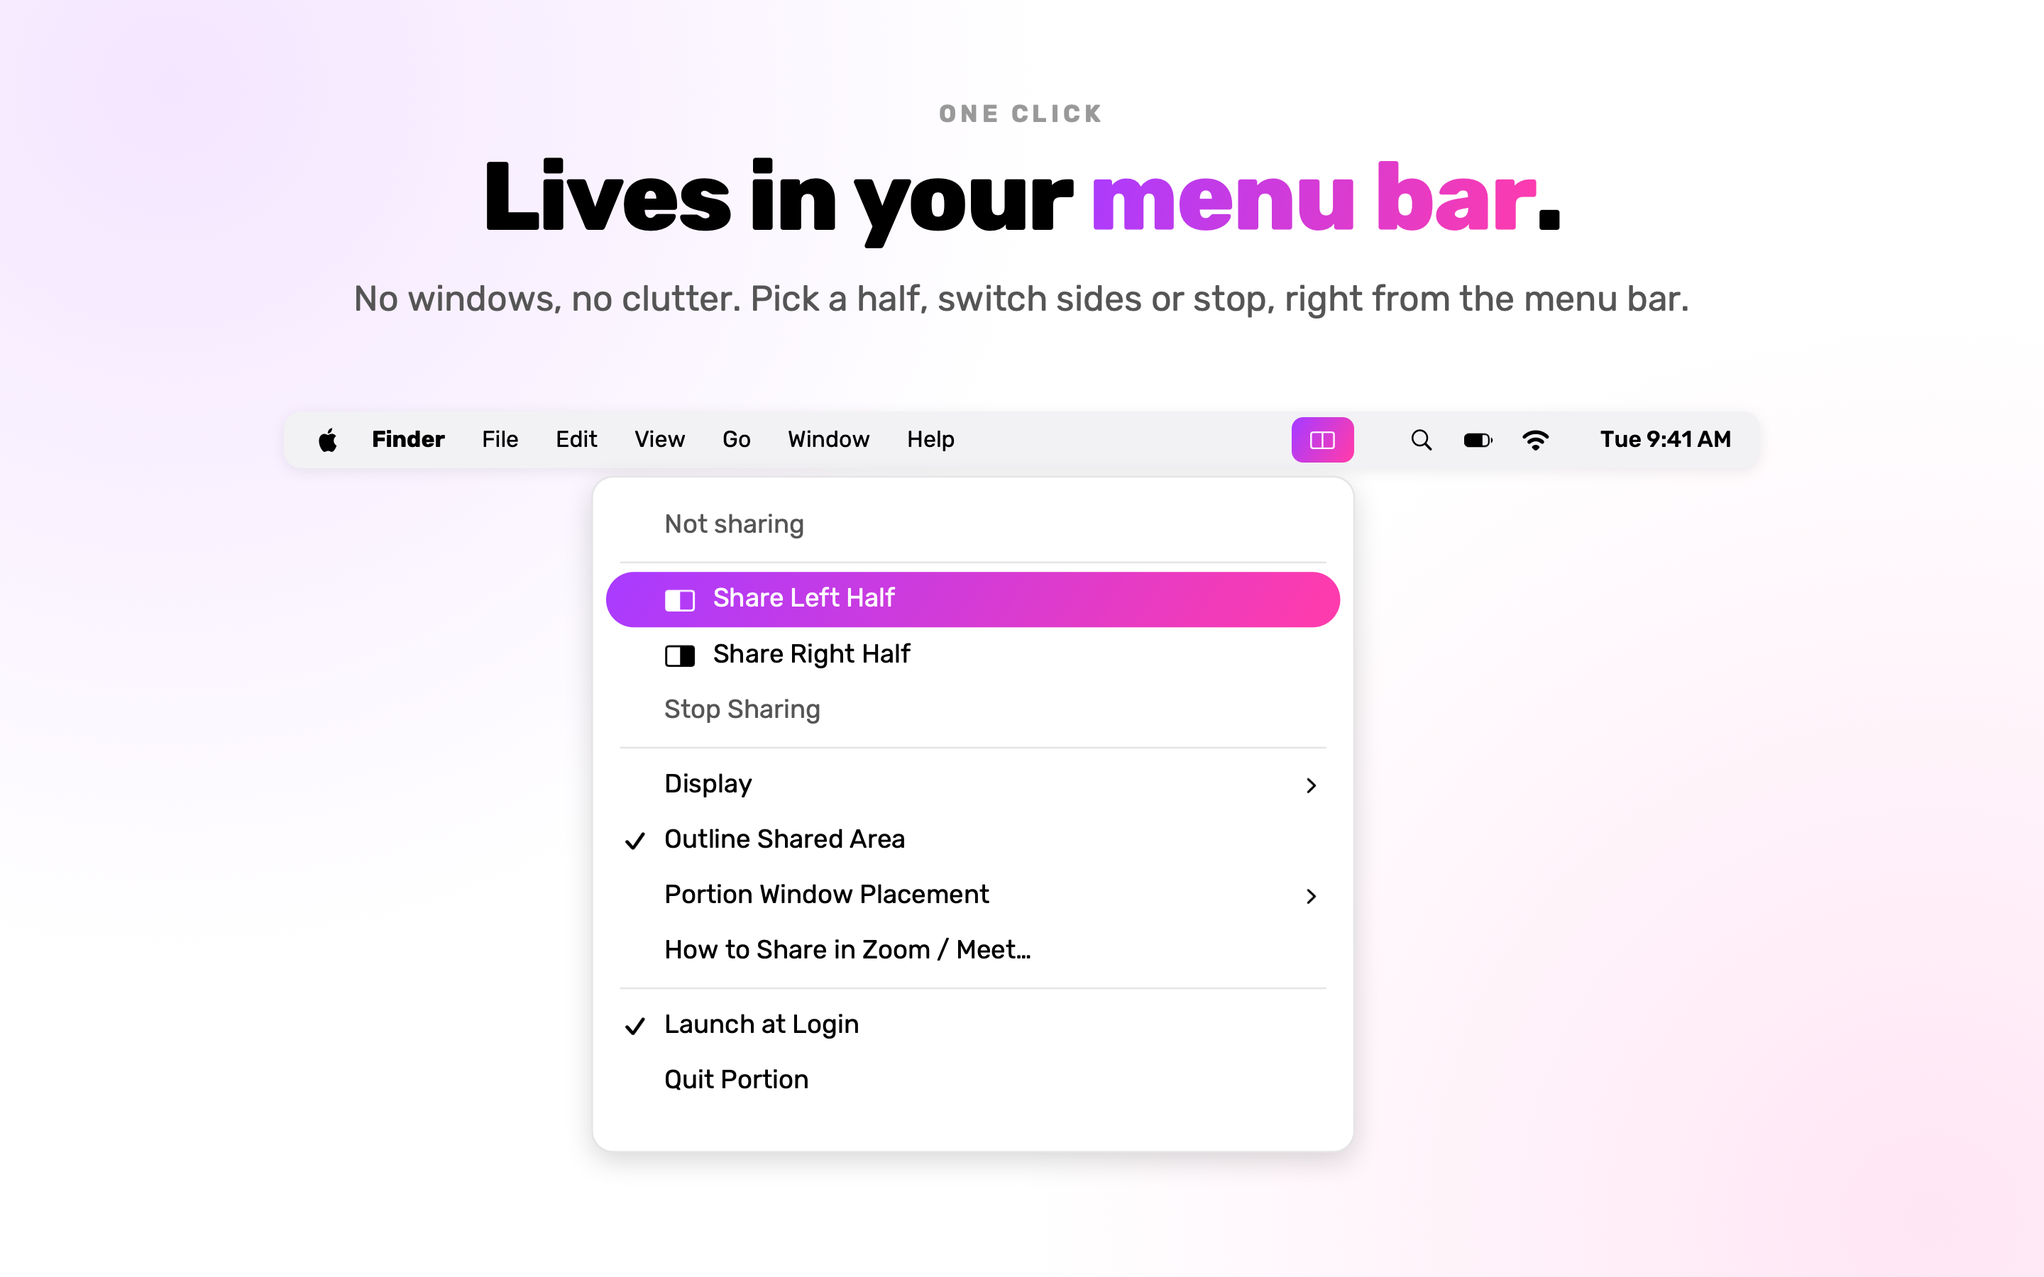
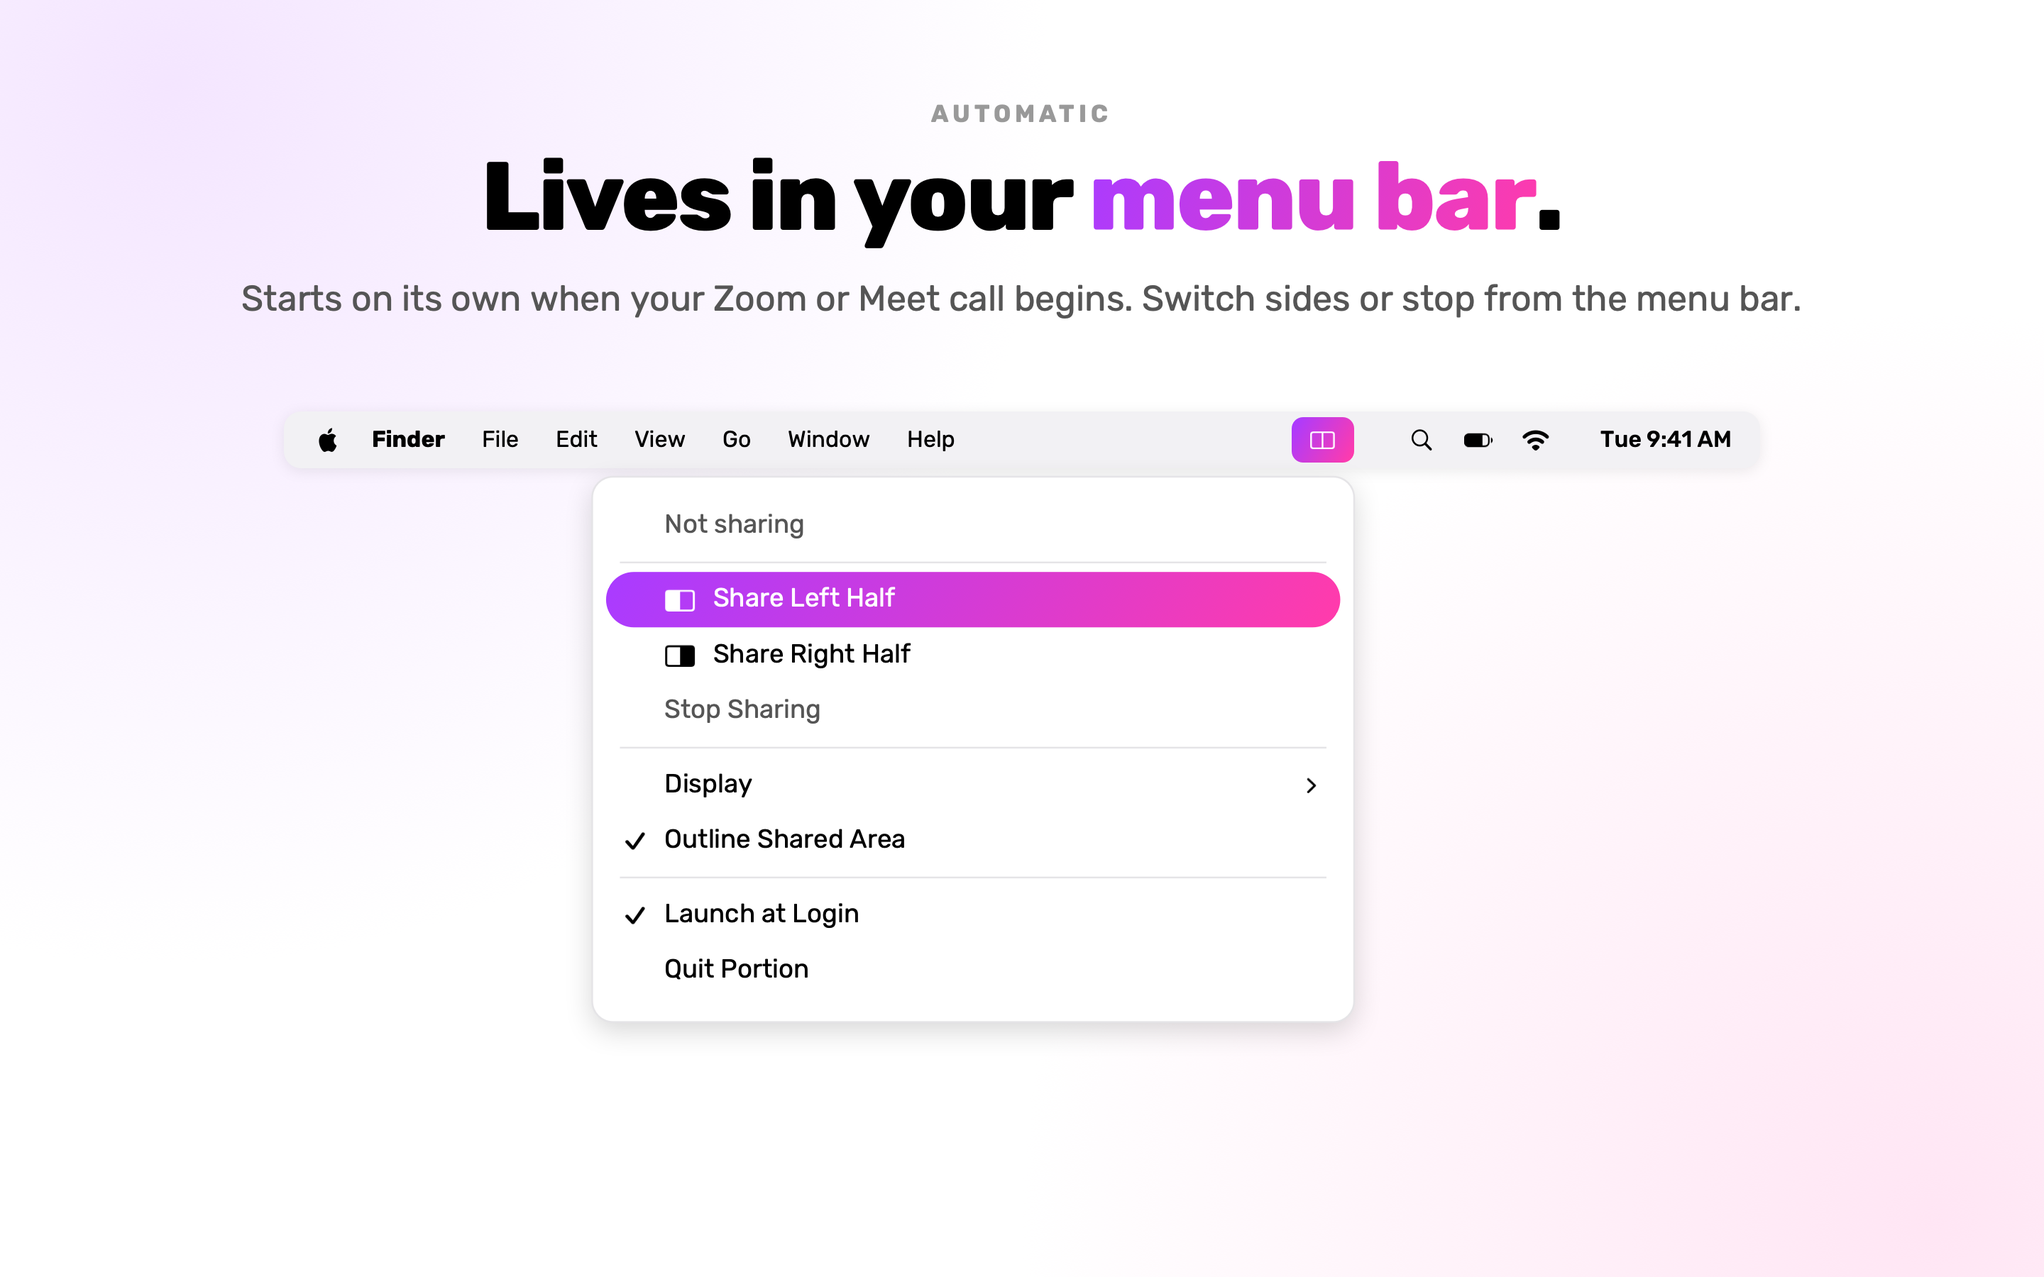
Update graphics and docs for automatic sharing and the simpler menu
Redraw the three-steps illustration (step 1 is now "Join your call"), the
menu image and the App Store menu bar screenshot. Update the README, App
Store listing and review notes, privacy policy and BUILDING.md to describe
automatic start/stop, continuous window-title checks and the microphone
in-use check.

diff --git a/Scripts/make-graphics.swift b/Scripts/make-graphics.swift
@@ -292,14 +292,14 @@ struct MakeGraphics {
         }
     }
 
-    /// Three steps: pick a half, pick the Portion window, click Share.
+    /// Three steps: join the call (Portion starts on its own), pick the Portion window, click Share.
     static func steps() {
         render("three-steps", width: 1200, height: 470) {
             canvas(1200, 470)
             let panelW: CGFloat = 352, gap: CGFloat = 22, top: CGFloat = 40
-            let titles = ["Pick a half", "Choose “Portion”", "Click Share"]
-            let notes = ["Click the Portion icon in your menu bar.",
-                         "In Zoom or Meet, pick the Portion window.",
+            let titles = ["Join your call", "Choose “Portion”", "Click Share"]
+            let notes = ["Portion starts sharing your left half on its own.",
+                         "Click Share in Zoom or Present in Meet, then pick Portion.",
                          "Done! The card goes away and your half is live."]
             for i in 0..<3 {
                 let p = NSRect(x: 40 + CGFloat(i) * (panelW + gap), y: top, width: panelW, height: 390)
@@ -310,7 +310,7 @@ struct MakeGraphics {
                 text(titles[i], at: NSPoint(x: p.minX + 80, y: p.minY + 34), size: 24, weight: 800)
                 let art = NSRect(x: p.minX + 24, y: p.minY + 84, width: p.width - 48, height: 210)
                 switch i {
-                case 0: stepMenu(art)
+                case 0: stepCall(art)
                 case 1: stepPicker(art)
                 default: stepShare(art)
                 }
@@ -319,27 +319,28 @@ struct MakeGraphics {
         }
     }
 
-    static func stepMenu(_ r: NSRect) {
-        // Menu bar strip.
-        let bar = NSRect(x: r.minX, y: r.minY, width: r.width, height: 34)
-        fill(bar, NSColor(hex: 0xE6E8EF), radius: 8)
-        for (i, s) in ["wifi", "battery.75percent", "clock"].enumerated() {
-            symbol(s, in: NSRect(x: bar.maxX - 34 - CGFloat(i) * 30, y: bar.minY + 9, width: 22, height: 16), color: inkSoft)
+    /// A call window, with Portion's notice that it has started on its own.
+    static func stepCall(_ r: NSRect) {
+        fill(r, callBG, radius: 12)
+        for (i, c) in [0xFF5F57, 0xFEBC2E, 0x28C840].enumerated() {
+            fill(NSRect(x: r.minX + 14 + CGFloat(i) * 18, y: r.minY + 14, width: 10, height: 10), NSColor(hex: UInt32(c)), radius: 5)
         }
-        let iconBox = NSRect(x: bar.minX + 120, y: bar.minY + 3, width: 36, height: 28)
-        fill(iconBox, Brand.purple.withAlphaComponent(0.15), radius: 6)
-        symbol("rectangle.split.2x1", in: iconBox.insetBy(dx: 7, dy: 6), color: ink)
-        // Dropdown.
-        let menu = NSRect(x: iconBox.minX - 10, y: bar.maxY + 8, width: 190, height: 140)
-        shadowed(blur: 14, y: 4, alpha: 0.16) { fill(menu, .white, radius: 10) }
-        let rows = [("rectangle.lefthalf.filled", "Share Left Half"), ("rectangle.righthalf.filled", "Share Right Half"), ("", "Stop Sharing")]
-        for (i, row) in rows.enumerated() {
-            let rr = NSRect(x: menu.minX + 6, y: menu.minY + 10 + CGFloat(i) * 40, width: menu.width - 12, height: 34)
-            if i == 0 { gradient(rr, radius: rr.height / 2) }
-            let color: NSColor = i == 0 ? .white : (i == 2 ? inkSoft : ink)
-            if !row.0.isEmpty { symbol(row.0, in: NSRect(x: rr.minX + 10, y: rr.minY + 9, width: 22, height: 16), color: color) }
-            text(row.1, at: NSPoint(x: rr.minX + 40, y: rr.minY + 7), size: 15, weight: 500, color: color)
+        // Participant tiles.
+        let tileW = (r.width - 16 * 3) / 2, tileH: CGFloat = 62
+        for i in 0..<2 {
+            let t = NSRect(x: r.minX + 16 + CGFloat(i) * (tileW + 16), y: r.minY + 38, width: tileW, height: tileH)
+            fill(t, NSColor(hex: 0x3C4043), radius: 8)
+            symbol("person.fill", in: t.insetBy(dx: tileW / 2 - 16, dy: 14), color: NSColor(hex: 0x9AA0A6))
         }
+        // Portion's status, as if from the menu bar.
+        let note = NSRect(x: r.minX + 16, y: r.minY + 116, width: r.width - 32, height: 76)
+        gradient(note, radius: 12)
+        let g = NSRect(x: note.minX + 16, y: note.midY - 13, width: 40, height: 26)
+        fill(g, NSColor.white.withAlphaComponent(0.3), radius: 4)
+        fill(NSRect(x: g.minX, y: g.minY, width: g.width / 2, height: g.height), .white, radius: 4)
+        stroke(g, .white, width: 2, radius: 4)
+        text("Portion is sharing", at: NSPoint(x: g.maxX + 14, y: note.minY + 16), size: 17, weight: 700, color: .white)
+        text("your left half", at: NSPoint(x: g.maxX + 14, y: note.minY + 40), size: 15, color: NSColor.white.withAlphaComponent(0.85))
     }
 
     static func stepPicker(_ r: NSRect) {
@@ -408,16 +409,16 @@ struct MakeGraphics {
 
     /// The menu bar menu.
     static func menu() {
-        render("menu", width: 560, height: 470) {
-            canvas(560, 470)
+        render("menu", width: 560, height: 395) {
+            canvas(560, 395)
             menuScene()
         }
     }
 
-    /// The menu without its canvas, laid out in a 560 × 470 space (menu at 60, 40, 440 × 390).
+    /// The menu without its canvas, laid out in a 560 × 395 space (menu at 60, 40, 440 × 315).
     static func menuScene() {
         do {
-            let m = NSRect(x: 60, y: 40, width: 440, height: 390)
+            let m = NSRect(x: 60, y: 40, width: 440, height: 315)
             shadowed(blur: 20, y: 6, alpha: 0.16) { fill(m, .white, radius: 12) }
             stroke(m, line, width: 1, radius: 12)
             var y = m.minY + 12
@@ -479,9 +480,9 @@ extension MakeGraphics {
             placed(at: NSPoint(x: (shotW - 500 * 1.5) / 2, y: 300), scale: 1.5) { privacyScene() }
         }
 
-        screenshot("04-menu-bar", eyebrow: "ONE CLICK",
+        screenshot("04-menu-bar", eyebrow: "AUTOMATIC",
                    headline: [("Lives in your ", false), ("menu bar", true), (".", false)],
-                   subline: "No windows, no clutter. Pick a half, switch sides or stop, right from the menu bar.") {
+                   subline: "Starts on its own when your Zoom or Meet call begins. Switch sides or stop from the menu bar.") {
             menuBarScene()
         }
 

diff --git a/AppStore/metadata.md b/AppStore/metadata.md
@@ -50,12 +50,15 @@ Share just half of your screen in video calls.
 Portion lets you present one half of your Mac's screen, like your slides, a document or a demo, while the other half stays completely private. Keep your notes, email and chat right next to what you're presenting, and nobody in the call will see them.
 
 HOW IT WORKS
-1. Click the Portion icon in the menu bar and choose Share Left Half or Share Right Half.
-2. In your video call, choose to share a window and pick "Portion".
-3. That's it. Everyone in the call sees only the half you picked.
+1. Join your Zoom meeting or Google Meet call. Portion starts sharing the left half of your screen on its own.
+2. Click Share in your call and pick the window named "Portion".
+3. That's it. Everyone in the call sees only that half. When the call ends, Portion stops on its own.
+
+Using another call app, or want the right half? Pick a half from the Portion icon in the menu bar.
 
 FEATURES
 • Share the left or right half of any display
+• Starts and stops on its own with Zoom meetings and Google Meet calls
 • A colored outline shows exactly what's being shared. The call never sees the outline.
 • Switch halves in the middle of a call, without stopping or sharing again
 • Easy to find: Portion shows up as a bold card in your call's window list
@@ -95,7 +98,7 @@ Upload the five files in [`screenshots/`](screenshots/), in order, under **macOS
 1. `01-share-half.png`: Share half your screen
 2. `02-find-it.png`: Find it instantly
 3. `03-private.png`: Everything else stays private
-4. `04-menu-bar.png`: Lives in your menu bar
+4. `04-menu-bar.png`: Lives in your menu bar (starts on its own with Zoom and Meet calls)
 5. `05-switch.png`: Switch halves mid-call
 
 ## App icon
@@ -133,10 +136,11 @@ On first launch, a welcome message explains where to find it. Portion's icon (tw
 HOW TO TEST
 1. Launch Portion and click Continue on the welcome message.
 2. macOS asks for Screen Recording permission. Turn on Portion in System Settings > Privacy & Security > Screen & System Audio Recording, then quit and reopen Portion (macOS requires this).
-3. Click the Portion menu bar icon and choose "Share Left Half". A purple-and-pink outline appears around the left half of the screen. The outline is only visible locally.
-4. Open a video call app that can share a single window, such as Zoom or Google Meet in Chrome (meet.google.com/new).
-5. Choose to share a window and pick the window named "Portion". It shows a purple card labeled "Portion".
-6. After clicking Share, the card disappears and the call shows a live picture of only the left half of the screen. Choose "Share Right Half" in the Portion menu to switch halves without re-sharing.
+3. Join a Google Meet call in Chrome (meet.google.com/new) or a Zoom meeting. Within a second, Portion starts sharing the left half of the screen on its own: a purple-and-pink outline appears around it. The outline is only visible locally.
+4. In the call, click Present (Meet) or Share Screen (Zoom), choose to share a window, and pick the window named "Portion". It shows a purple card labeled "Portion".
+5. After clicking Share, the card disappears and the call shows a live picture of only the left half of the screen. Choose "Share Right Half" in the Portion menu to switch halves without re-sharing.
+6. Leave the call. A few seconds later, Portion stops sharing on its own and the outline disappears.
+With other call apps, choose "Share Left Half" from the Portion menu first, then share the "Portion" window.
 
 WHY PORTION NEEDS SCREEN RECORDING
 Portion copies half of the screen into its own window, called "Portion", which the call app then shares. Nothing is recorded, saved or sent anywhere. Portion has no network access.
@@ -145,5 +149,8 @@ ABOUT THE PORTION WINDOW
 The "Portion" window is deliberately placed almost entirely off-screen, so the user doesn't see a second copy of their screen. It is still visible to the call app's window picker.
 
 ABOUT READING WINDOW TITLES
-While its purple card is showing, Portion checks the titles of on-screen windows a few times per second. It looks only for the indicator that Zoom or Chrome shows once sharing starts ("... is sharing a window"), then hides its card so the call sees the user's screen. Titles are never stored or sent anywhere, and the check stops as soon as sharing begins.
+While running, Portion checks the titles of on-screen windows twice per second. It looks only for a Zoom meeting window ("Zoom Meeting"), a Google Meet call tab ("Meet - abc-defg-hij") or Chrome's Meet share picker, so it can start and stop sharing with the call, and for the indicator Zoom or Chrome shows once sharing starts ("... is sharing a window"), so it can hide its card. Titles are never stored or sent anywhere.
+
+ABOUT MICROPHONE STATUS
+Browsers only expose the active tab's title, so to tell a call in a background tab from one that has ended, Portion asks Core Audio whether any input device is running (kAudioDevicePropertyDeviceIsRunningSomewhere). It never opens a microphone or receives audio, and needs no microphone permission.
 ```

diff --git a/BUILDING.md b/BUILDING.md
@@ -52,7 +52,8 @@ Portion's style matches [christopherrose.com](https://christopherrose.com): blac
 
 - Portion captures half of a display with ScreenCaptureKit and draws it live into a borderless window titled **Portion**. Call apps share that window.
 - That window normally hangs off the bottom-right corner of the rightmost display, overlapping it by one pixel. If the window were *fully* off-screen, ScreenCaptureKit couldn't snapshot it, and share pickers would show a blank thumbnail.
-- When sharing starts, the window shows a branded card (`IntroCard.swift`), so it's easy to spot in pickers. macOS doesn't report when another app starts capturing a window. Instead, `ShareDetector.swift` watches for the "sharing" indicator windows that Chrome ("… is sharing a window.") and Zoom ("zoom share toolbar window") open, and dismisses the card when one appears. A 60-second fallback covers other apps.
+- When sharing starts, the window shows a branded card (`IntroCard.swift`), so it's easy to spot in pickers. macOS doesn't report when another app starts capturing a window. Instead, `ShareDetector.swift` watches for the "sharing" indicator windows that Chrome ("… is sharing a window.") and Zoom ("zoom share toolbar window") open, and dismisses the card when one appears. A 60-second fallback covers other apps. When sharing started on its own with a call, the card stays up until the share begins, since the picker may not open for a while.
+- `CallDetector.swift` starts sharing the left half when a Zoom meeting window ("Zoom Meeting") or a Google Meet call tab ("Meet - abc-defg-hij") is on screen, or when Chrome's "Choose what to share with meet.google.com" picker opens, so the Portion window is already in the picker. It stops sharing it started a few seconds after the call window, the sharing indicator and microphone use are all gone. Browsers only report the active tab's title, so microphone use (read through Core Audio's `kAudioDevicePropertyDeviceIsRunningSomewhere`, never the audio itself) is what keeps a call alive while the Meet tab is in the background. Choosing Stop Sharing keeps it off for the rest of that call. Each call is told apart by its Meet code.
 - If the capture stream stops (sleep, lock, display changes), Portion restarts it into the same window, so the call keeps sharing.
 
 ## Project layout
@@ -66,6 +67,7 @@ Sources/Portion/
   MirrorWindow.swift             The "Portion" window that you share in calls
   IntroCard.swift                Branded card shown in the Portion window when sharing starts
   ShareDetector.swift            Notices when Zoom / Meet start sharing, to dismiss the card
+  CallDetector.swift             Starts and stops sharing with Zoom / Meet calls
   BorderOverlay.swift            Gradient outline around the shared area
   Brand.swift                    Brand colors and the Rubik font (matches christopherrose.com)
 Resources/Info.plist             Bundle metadata (LSUIElement = menu bar only)

diff --git a/PRIVACY.md b/PRIVACY.md
@@ -1,6 +1,6 @@
 # Portion Privacy Policy
 
-_Last updated: November 11, 2026_
+_Last updated: November 14, 2026_
 
 Portion is a Mac app by Christopher Rose that lets you share half of your screen in video calls. This policy explains what Portion does with your information. The short version: **Portion doesn't collect any.**
 
@@ -11,7 +11,8 @@ Nothing. Portion has no accounts, analytics, advertising, or tracking. It doesn'
 ## What Portion does on your Mac
 
 - **Your screen.** With your permission (macOS's Screen Recording setting), Portion copies the half of your screen you choose into a window called "Portion". You decide whether to share that window in a video call. Portion never records, saves, or sends the picture of your screen. It exists only on your Mac while Portion is sharing.
-- **Window titles.** For a short time after you start sharing, Portion checks the titles of windows on your screen. It does this only to notice when Zoom or Google Meet show their "you're sharing" indicator, so it can hide its purple start-up card. Portion doesn't store window titles or send them anywhere.
+- **Window titles.** While it's running, Portion checks the titles of windows on your screen. It does this only to notice when a Zoom meeting or Google Meet call opens or closes (so it can start and stop sharing for you), and when Zoom or Meet show their "you're sharing" indicator (so it can hide its purple start-up card). Portion doesn't store window titles or send them anywhere.
+- **Microphone in use.** During a call, Portion checks whether any app is using a microphone, to tell a call that's still going on in a background tab from one that has ended. It only asks macOS *whether* a microphone is in use. It never hears, records, or receives any audio, and it doesn't need microphone permission.
 - **Settings.** Portion remembers your choices in its menu (for example, which display to use and whether to show the outline). These settings stay on your Mac.
 
 ## What your video call app does

diff --git a/README.md b/README.md
@@ -33,14 +33,14 @@ Zoom and Chrome need the same permission to share windows. If you've shared your
 ## Share half your screen
 
 <p align="center">
-  <img src="docs/images/three-steps.png" alt="Step 1: choose Share Left Half from the Portion menu. Step 2: choose the Portion window in Zoom or Meet. Step 3: click Share." width="800">
+  <img src="docs/images/three-steps.png" alt="Step 1: join your call, and Portion starts sharing your left half on its own. Step 2: choose the Portion window in Zoom or Meet. Step 3: click Share." width="800">
 </p>
 
 **1. Join your call.** When a Zoom meeting or Google Meet call opens, Portion starts sharing the **left half** of your screen on its own. A purple-and-pink outline appears around that half, so you always know what people can see. The outline is only on your screen. People in the call don't see it.
 
 Want the right half, or using another call app? Click the Portion icon in the menu bar and choose **Share Left Half** or **Share Right Half** yourself.
 
-**2. Share the "Portion" window in your call.**
+**2. Share the "Portion" window in your call.** Click Share as usual. Portion is already in the list.
 
 | App | What to click |
 | --- | --- |
@@ -48,7 +48,7 @@ Want the right half, or using another call app? Click the Portion icon in the me
 | **Zoom** | **Share Screen** → **Portion** → **Share** |
 | **Other apps** | Choose to share a *window* (not your entire screen) and pick **Portion** |
 
-**3. That's it.** Anything you put on that half of your screen is now visible in the call.
+**3. That's it.** Anything you put on that half of your screen is now visible in the call. When the call ends, Portion stops on its own.
 
 ### Look for the Portion card
 
